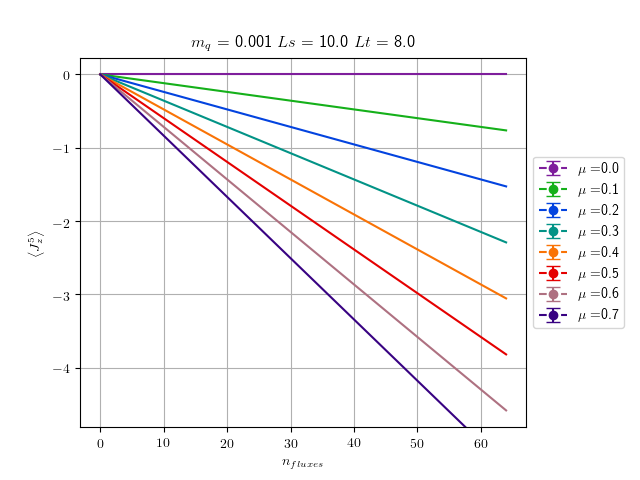
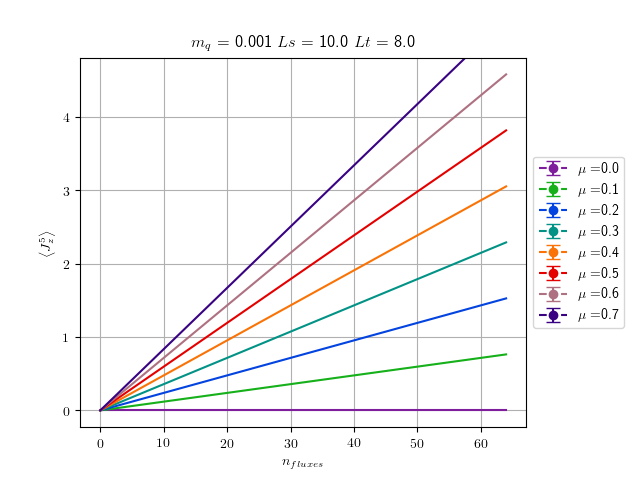
add results

diff --git a/scriptsandconstants/AxialCurrent.py b/scriptsandconstants/AxialCurrent.py
@@ -40,7 +40,7 @@ for _Ls in range(0, Ls_num):
 				step = 1
 				ax.errorbar(nfluxes[start:stop:step]*2, AxialCurrent[start:stop:step], yerr=AxialCurrentErr[start:stop:step]*err_norm, 
 					fmt='o', label=(r'$\mu = $' + str(mu[start])), ls='--', marker='o', capsize=5, capthick=1, ecolor=colors[_mu], color=colors[_mu])
-				l = mlines.Line2D([0,nfluxes[stop-1]*2], [0,-(nfluxes[stop-1])*2 * mu[start] * 3 * Lt[start] / (3.141593 * Lt[start]**2 )], color=colors[_mu])
+				l = mlines.Line2D([0,nfluxes[stop-1]*2], [0,(nfluxes[stop-1])*2 * mu[start] * 3 * Lt[start] / (3.141593 * Lt[start]**2 )], color=colors[_mu])
 				ax.add_line(l)
 			printindex = _Ls * (Lt_num * mu_num * ma_num * nfluxes_num) + \
 						_Lt * (mu_num * ma_num * nfluxes_num) + \

diff --git a/scriptsandconstants/currentLatticeAxialCurrent.py b/scriptsandconstants/currentLatticeAxialCurrent.py
@@ -75,7 +75,7 @@ for _ma in range(0, ma_num):
 		step = 1
 		ax.errorbar(nfluxes[start:stop:step]*2, AxialCurrent[start:stop:step], 
 			fmt='o', label=(r'$\mu = $' + str(mu[start])), ls='--', marker='o', color=colors[_mu])
-		l = mlines.Line2D([0,nfluxes[stop-1]*2], [0,-(nfluxes[stop-1])*2 * mu[start] * 3 * Lt[start] / (3.141593 * Lt[start]**2 )], color=colors[_mu])
+		l = mlines.Line2D([0,nfluxes[stop-1]*2], [0,(nfluxes[stop-1])*2 * mu[start] * 3 * Lt[start] / (3.141593 * Lt[start]**2 )], color=colors[_mu])
 		#ax.add_line(l)
 	printindex = _Ls * (Lt_num * mu_num * ma_num * nfluxes_num) + \
 				_Lt * (mu_num * ma_num * nfluxes_num) + \
